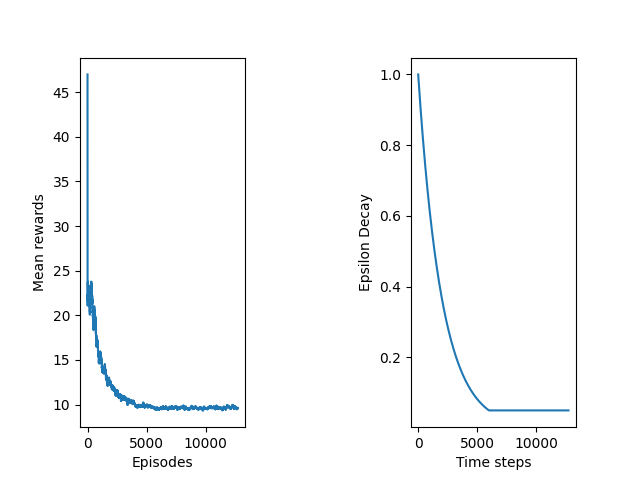
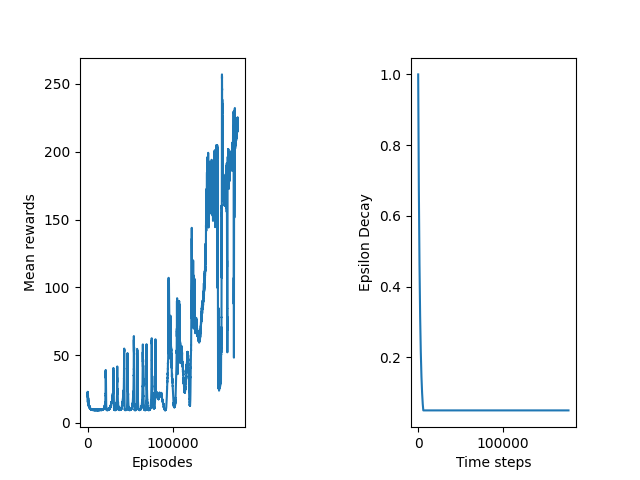
Trained, updated hyperparameters, fixed bugs

diff --git a/agent.py b/agent.py
@@ -126,9 +126,10 @@ class Agent:
             state = torch.tensor(state, dtype=torch.float, device=device)
 
             terminated = False
+            truncated = False
             episode_reward = 0.0
 
-            while (not terminated and episode_reward < self.stop_on_reward):
+            while (not terminated and not truncated and episode_reward < self.stop_on_reward):
                 if is_training and random.random() < epsilon:
                     action = env.action_space.sample() # explore
                     action = torch.tensor(action, dtype=torch.int64, device=device)
@@ -139,7 +140,7 @@ class Agent:
                         # doing this bc the indices line up with the action space (0 is 0, 1 is 1)
 
                 # Processing:
-                new_state, reward, terminated, _, info = env.step(action.item())
+                new_state, reward, terminated, truncated, _ = env.step(action.item()) # _ is info
 
                 # Accumulate reward for this episode
                 episode_reward += float(reward)
@@ -164,7 +165,11 @@ class Agent:
             # Save model when best reward is achieved
             if is_training:
                 if episode_reward > best_reward:
-                    log_message = f"{datetime.now().strftime(DATE_FORMAT)}: New best reward {episode_reward:0.1f}"
+                    if best_reward == float('-inf') or best_reward == 0:
+                        pct_change = float('inf')
+                    else:
+                        pct_change = (episode_reward - best_reward) / abs(best_reward) * 100
+                    log_message = f"{datetime.now().strftime(DATE_FORMAT)}: Episode {episode}: New best reward {episode_reward:0.1f} ({pct_change:+.1f}%)"
                     print(log_message, flush=True)
 
                     with open(self.LOG_FILE, 'a') as file:
